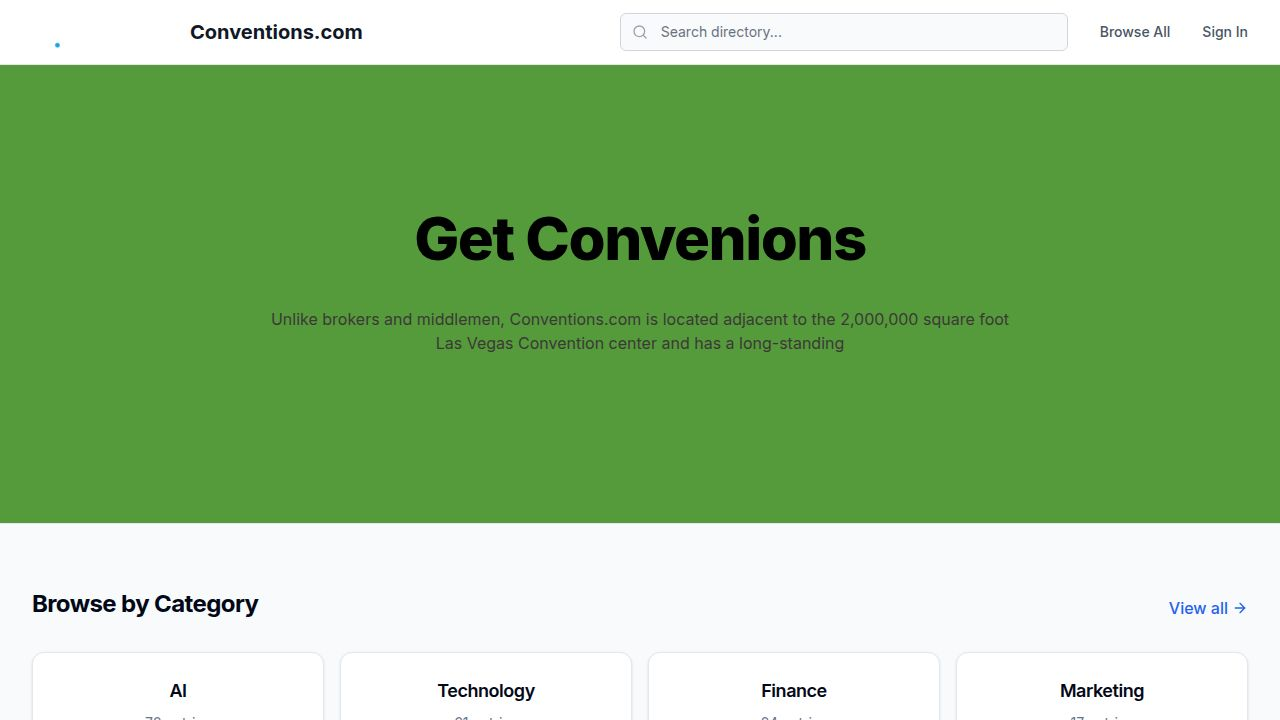
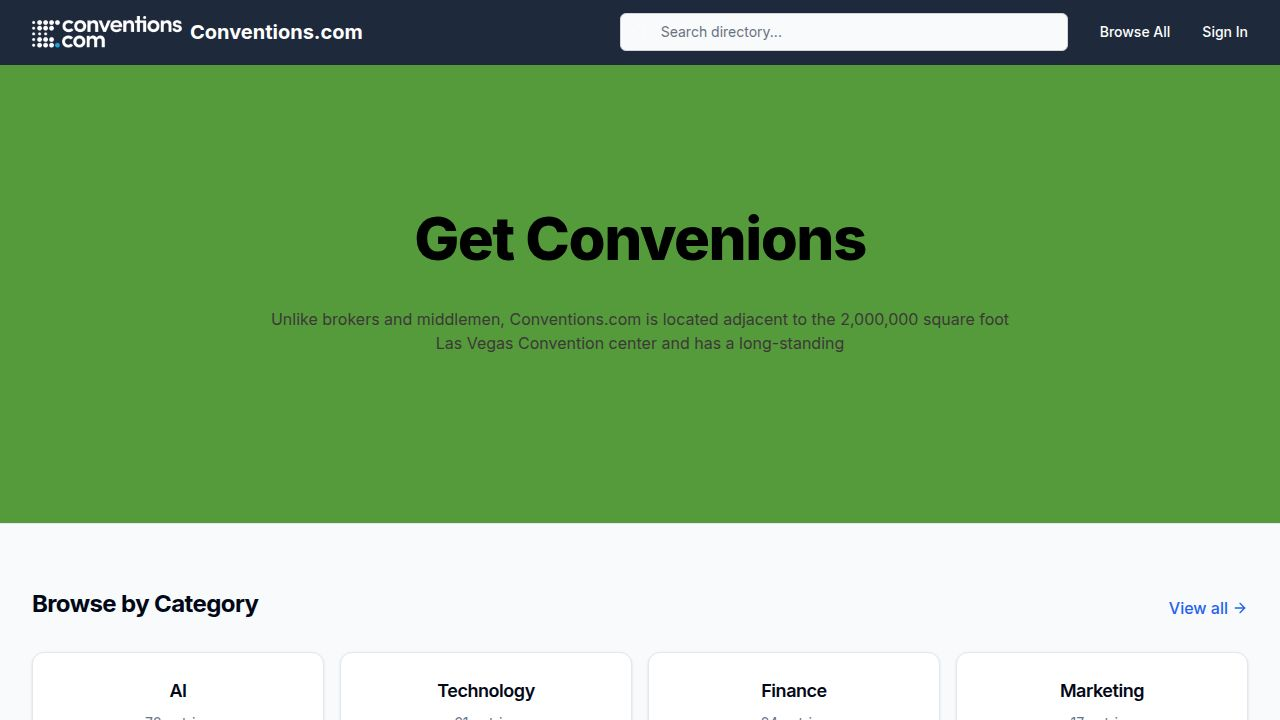
Add options to customize the website's top bar colors
Introduce new settings for navbar background and text colors, update API routes and database schema, and implement UI controls in the admin settings page to allow users to customize these colors.

Replit-Commit-Author: Agent
Replit-Commit-Session-Id: 25d78865-1585-42ab-b545-c729b7b8aaf7
Replit-Commit-Checkpoint-Type: full_checkpoint
Replit-Commit-Event-Id: fa8e0b05-1bd5-494d-9e8e-900a48126c6d
Replit-Commit-Screenshot-Url: https://storage.googleapis.com/screenshot-production-us-central1/64759ed0-e5d2-419d-9456-3aa9d6a6c0d2/25d78865-1585-42ab-b545-c729b7b8aaf7/oiVrBKn
Replit-Helium-Checkpoint-Created: true

Changed region(s): [[0.0, 0.0, 1.0, 0.0917]]

diff --git a/artifacts/directory-master/src/pages/admin/settings.tsx b/artifacts/directory-master/src/pages/admin/settings.tsx
@@ -26,6 +26,8 @@ const settingsSchema = z.object({
   homepageHeadline: z.string().optional().nullable(),
   homepageDescription: z.string().optional().nullable(),
   themeColor: z.string().optional().nullable(),
+  navbarBgColor: z.string().optional().nullable(),
+  navbarTextColor: z.string().optional().nullable(),
   calloutSections: z.string().optional().nullable(),
 });
 
@@ -80,6 +82,8 @@ export default function AdminSettingsPage() {
       homepageHeadline: "",
       homepageDescription: "",
       themeColor: "",
+      navbarBgColor: "",
+      navbarTextColor: "",
       calloutSections: "",
     }
   });
@@ -92,6 +96,8 @@ export default function AdminSettingsPage() {
         homepageHeadline: settings.homepageHeadline || "",
         homepageDescription: settings.homepageDescription || "",
         themeColor: settings.themeColor || "",
+        navbarBgColor: (settings as any).navbarBgColor || "",
+        navbarTextColor: (settings as any).navbarTextColor || "",
         calloutSections: settings.calloutSections || "",
       });
       setTemplateSettings(mergeTemplateSettings((settings as any).templateSettings));
@@ -184,6 +190,100 @@ export default function AdminSettingsPage() {
                   </FormItem>
                 )}
               />
+
+              <div className="pt-2 border-t">
+                <p className="text-sm font-medium mb-4">Navigation Bar Colors</p>
+                <div className="grid grid-cols-1 sm:grid-cols-2 gap-6">
+                  <FormField
+                    control={form.control}
+                    name="navbarBgColor"
+                    render={({ field }) => (
+                      <FormItem>
+                        <FormLabel>Background Color</FormLabel>
+                        <div className="flex items-center gap-3">
+                          <Input
+                            type="color"
+                            className="w-12 h-10 p-1 cursor-pointer border-0 shadow-none"
+                            value={field.value || '#ffffff'}
+                            onChange={field.onChange}
+                          />
+                          <FormControl>
+                            <Input
+                              className="w-36 font-mono"
+                              placeholder="#ffffff"
+                              {...field}
+                              value={field.value || ''}
+                            />
+                          </FormControl>
+                          {field.value && (
+                            <button
+                              type="button"
+                              onClick={() => field.onChange("")}
+                              className="text-xs text-muted-foreground hover:text-foreground transition-colors"
+                            >
+                              Clear
+                            </button>
+                          )}
+                        </div>
+                        <FormDescription>Top bar background. Leave blank for the default white.</FormDescription>
+                        <FormMessage />
+                      </FormItem>
+                    )}
+                  />
+                  <FormField
+                    control={form.control}
+                    name="navbarTextColor"
+                    render={({ field }) => (
+                      <FormItem>
+                        <FormLabel>Text &amp; Icon Color</FormLabel>
+                        <div className="flex items-center gap-3">
+                          <Input
+                            type="color"
+                            className="w-12 h-10 p-1 cursor-pointer border-0 shadow-none"
+                            value={field.value || '#111827'}
+                            onChange={field.onChange}
+                          />
+                          <FormControl>
+                            <Input
+                              className="w-36 font-mono"
+                              placeholder="#111827"
+                              {...field}
+                              value={field.value || ''}
+                            />
+                          </FormControl>
+                          {field.value && (
+                            <button
+                              type="button"
+                              onClick={() => field.onChange("")}
+                              className="text-xs text-muted-foreground hover:text-foreground transition-colors"
+                            >
+                              Clear
+                            </button>
+                          )}
+                        </div>
+                        <FormDescription>Site title, nav links, and search icon color. Useful for white logos on dark headers.</FormDescription>
+                        <FormMessage />
+                      </FormItem>
+                    )}
+                  />
+                </div>
+                {/* Live preview strip */}
+                {(form.watch("navbarBgColor") || form.watch("navbarTextColor")) && (
+                  <div
+                    className="mt-4 rounded-lg border px-4 py-3 flex items-center gap-3 text-sm font-medium transition-colors"
+                    style={{
+                      backgroundColor: form.watch("navbarBgColor") || undefined,
+                      color: form.watch("navbarTextColor") || undefined,
+                      borderColor: form.watch("navbarBgColor") ? "transparent" : undefined,
+                    }}
+                  >
+                    <span className="font-bold text-base">{form.watch("siteTitle") || "Your Site"}</span>
+                    <span className="mx-auto" />
+                    <span className="opacity-70">Browse All</span>
+                    <span className="opacity-70">Sign In</span>
+                  </div>
+                )}
+              </div>
             </CardContent>
           </Card>
 

diff --git a/artifacts/directory-master/src/components/layout/public-layout.tsx b/artifacts/directory-master/src/components/layout/public-layout.tsx
@@ -10,6 +10,20 @@ export function PublicLayout({ children }: { children: React.ReactNode }) {
   const [isMenuOpen, setIsMenuOpen] = useState(false);
   const [searchQuery, setSearchQuery] = useState("");
 
+  const navbarBg = (settings as any)?.navbarBgColor || undefined;
+  const navbarText = (settings as any)?.navbarTextColor || undefined;
+
+  const navbarStyle: React.CSSProperties = {
+    backgroundColor: navbarBg,
+    borderBottomColor: navbarBg ? "transparent" : undefined,
+  };
+
+  const textStyle: React.CSSProperties = {
+    color: navbarText,
+  };
+
+  const linkClass = `font-medium text-sm transition-colors ${navbarText ? "" : "text-gray-600 dark:text-gray-300 hover:text-gray-900 dark:hover:text-white"}`;
+
   const handleSearch = (e: React.FormEvent) => {
     e.preventDefault();
     if (searchQuery.trim()) {
@@ -20,7 +34,10 @@ export function PublicLayout({ children }: { children: React.ReactNode }) {
 
   return (
     <div className="min-h-screen flex flex-col bg-gray-50 dark:bg-gray-900">
-      <header className="bg-white dark:bg-gray-950 border-b border-gray-200 dark:border-gray-800 sticky top-0 z-50">
+      <header
+        className="bg-white dark:bg-gray-950 border-b border-gray-200 dark:border-gray-800 sticky top-0 z-50"
+        style={navbarStyle}
+      >
         <div className="max-w-7xl mx-auto px-4 sm:px-6 lg:px-8">
           <div className="flex justify-between items-center h-16">
             <div className="flex items-center">
@@ -28,7 +45,7 @@ export function PublicLayout({ children }: { children: React.ReactNode }) {
                 {settings?.logoUrl ? (
                   <img src={settings.logoUrl} alt={settings.siteTitle} className="h-8 w-auto" />
                 ) : null}
-                <span className="font-bold text-xl text-gray-900 dark:text-white">
+                <span className="font-bold text-xl text-gray-900 dark:text-white" style={textStyle}>
                   {settings?.siteTitle || "Directory"}
                 </span>
               </Link>
@@ -38,7 +55,7 @@ export function PublicLayout({ children }: { children: React.ReactNode }) {
             <div className="hidden md:flex md:items-center md:space-x-8 flex-1 justify-end">
               <form onSubmit={handleSearch} className="relative w-full max-w-md mx-8">
                 <div className="absolute inset-y-0 left-0 pl-3 flex items-center pointer-events-none">
-                  <Search className="h-4 w-4 text-gray-400" />
+                  <Search className="h-4 w-4" style={navbarText ? { color: navbarText, opacity: 0.6 } : { color: undefined }} />
                 </div>
                 <input
                   type="text"
@@ -49,10 +66,18 @@ export function PublicLayout({ children }: { children: React.ReactNode }) {
                 />
               </form>
               
-              <Link href="/browse" className="text-gray-600 dark:text-gray-300 hover:text-gray-900 dark:hover:text-white font-medium text-sm transition-colors">
+              <Link
+                href="/browse"
+                className={linkClass}
+                style={textStyle}
+              >
                 Browse All
               </Link>
-              <Link href="/admin/login" className="text-gray-600 dark:text-gray-300 hover:text-gray-900 dark:hover:text-white font-medium text-sm transition-colors">
+              <Link
+                href="/admin/login"
+                className={linkClass}
+                style={textStyle}
+              >
                 Sign In
               </Link>
             </div>
@@ -61,9 +86,12 @@ export function PublicLayout({ children }: { children: React.ReactNode }) {
             <div className="flex items-center md:hidden">
               <button
                 onClick={() => setIsMenuOpen(!isMenuOpen)}
-                className="inline-flex items-center justify-center p-2 rounded-md text-gray-400 hover:text-gray-500 hover:bg-gray-100 dark:hover:bg-gray-800 focus:outline-none"
+                className="inline-flex items-center justify-center p-2 rounded-md focus:outline-none"
+                style={navbarText ? { color: navbarText } : undefined}
               >
-                {isMenuOpen ? <X className="block h-6 w-6" /> : <Menu className="block h-6 w-6" />}
+                {isMenuOpen
+                  ? <X className="block h-6 w-6" />
+                  : <Menu className="block h-6 w-6" />}
               </button>
             </div>
           </div>
@@ -71,7 +99,10 @@ export function PublicLayout({ children }: { children: React.ReactNode }) {
 
         {/* Mobile menu */}
         {isMenuOpen && (
-          <div className="md:hidden bg-white dark:bg-gray-950 border-b border-gray-200 dark:border-gray-800 pb-4 px-4">
+          <div
+            className="md:hidden border-b border-gray-200 dark:border-gray-800 pb-4 px-4"
+            style={{ backgroundColor: navbarBg || undefined }}
+          >
             <form onSubmit={handleSearch} className="mt-2 mb-4">
               <div className="relative">
                 <div className="absolute inset-y-0 left-0 pl-3 flex items-center pointer-events-none">
@@ -87,17 +118,19 @@ export function PublicLayout({ children }: { children: React.ReactNode }) {
               </div>
             </form>
             <div className="flex flex-col space-y-2">
-              <Link 
-                href="/browse" 
+              <Link
+                href="/browse"
                 onClick={() => setIsMenuOpen(false)}
-                className="block px-3 py-2 rounded-md text-base font-medium text-gray-900 dark:text-white hover:bg-gray-50 dark:hover:bg-gray-800"
+                className="block px-3 py-2 rounded-md text-base font-medium"
+                style={navbarText ? textStyle : undefined}
               >
                 Browse All
               </Link>
-              <Link 
-                href="/admin/login" 
+              <Link
+                href="/admin/login"
                 onClick={() => setIsMenuOpen(false)}
-                className="block px-3 py-2 rounded-md text-base font-medium text-gray-900 dark:text-white hover:bg-gray-50 dark:hover:bg-gray-800"
+                className="block px-3 py-2 rounded-md text-base font-medium"
+                style={navbarText ? textStyle : undefined}
               >
                 Sign In
               </Link>

diff --git a/artifacts/api-server/src/routes/settings.ts b/artifacts/api-server/src/routes/settings.ts
@@ -14,6 +14,8 @@ function formatSettings(s: typeof directorySettings.$inferSelect) {
     homepageHeadline: s.homepageHeadline,
     homepageDescription: s.homepageDescription,
     themeColor: s.themeColor,
+    navbarBgColor: s.navbarBgColor,
+    navbarTextColor: s.navbarTextColor,
     calloutSections: s.calloutSections,
     templateSettings: s.templateSettings ?? null,
     installed: s.installed,
@@ -43,6 +45,8 @@ router.patch("/", requireAdmin, async (req, res) => {
     if (req.body.homepageHeadline !== undefined)    dbUpdates.homepageHeadline = req.body.homepageHeadline;
     if (req.body.homepageDescription !== undefined) dbUpdates.homepageDescription = req.body.homepageDescription;
     if (req.body.themeColor !== undefined)          dbUpdates.themeColor = req.body.themeColor;
+    if (req.body.navbarBgColor !== undefined)       dbUpdates.navbarBgColor = req.body.navbarBgColor;
+    if (req.body.navbarTextColor !== undefined)     dbUpdates.navbarTextColor = req.body.navbarTextColor;
     if (req.body.calloutSections !== undefined)     dbUpdates.calloutSections = req.body.calloutSections;
     if (req.body.templateSettings !== undefined)    dbUpdates.templateSettings = req.body.templateSettings;
 

diff --git a/artifacts/api-server/src/routes/publicRoute.ts b/artifacts/api-server/src/routes/publicRoute.ts
@@ -162,6 +162,8 @@ router.get("/settings", async (req, res) => {
       homepageHeadline: settings.homepageHeadline,
       homepageDescription: settings.homepageDescription,
       themeColor: settings.themeColor,
+      navbarBgColor: settings.navbarBgColor,
+      navbarTextColor: settings.navbarTextColor,
       calloutSections: settings.calloutSections,
       templateSettings: settings.templateSettings ?? null,
       installed: settings.installed,

diff --git a/lib/db/src/schema/directorySettings.ts b/lib/db/src/schema/directorySettings.ts
@@ -9,6 +9,8 @@ export const directorySettings = pgTable("directory_settings", {
   homepageHeadline: text("homepage_headline"),
   homepageDescription: text("homepage_description"),
   themeColor: text("theme_color"),
+  navbarBgColor: text("navbar_bg_color"),
+  navbarTextColor: text("navbar_text_color"),
   calloutSections: text("callout_sections"),
   templateSettings: jsonb("template_settings"),
   installed: boolean("installed").notNull().default(false),